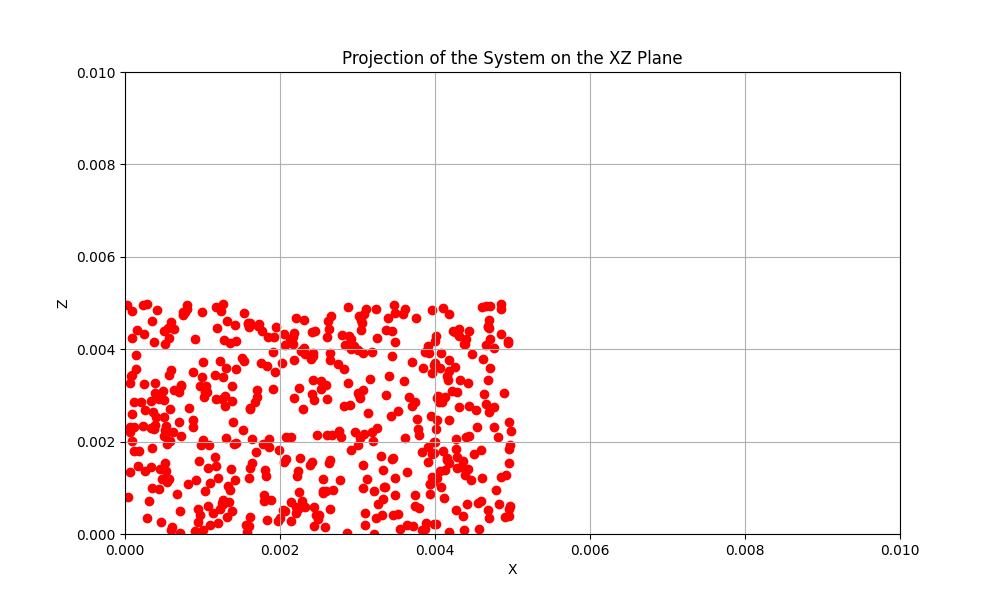
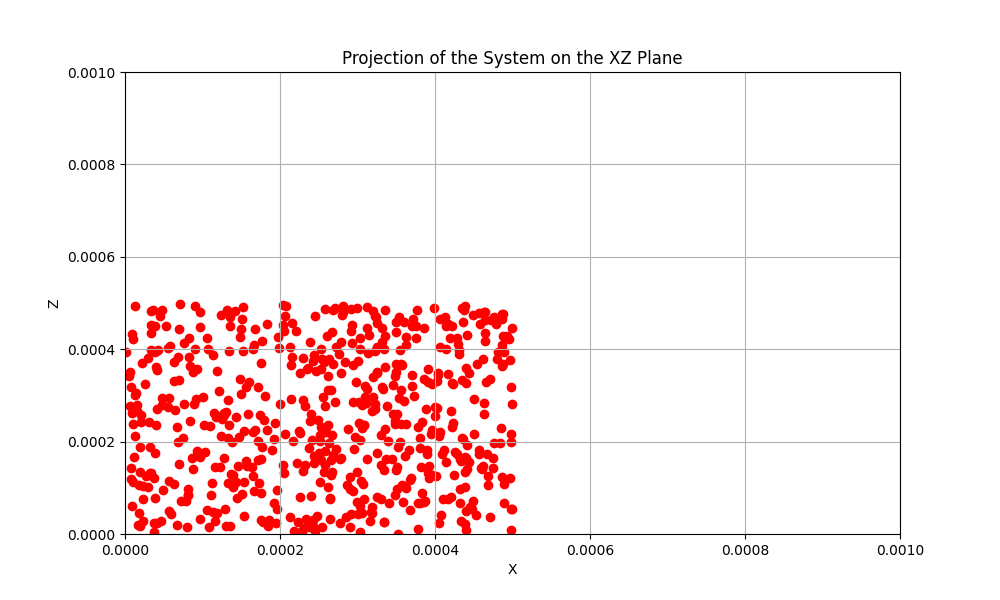
ignoring epsilon

diff --git a/montecarlosim/simulation.py b/montecarlosim/simulation.py
@@ -8,8 +8,8 @@ from concurrent.futures import ThreadPoolExecutor, as_completed
 from montecarlosim.container import Region, get_region
 from montecarlosim.initializer import Initializer
 
-def lj_potential(r, eps = 1) -> float: ### verify this is correct
-    return 4 * (math.pow(r, -12) - math.pow(r, -6)) * (eps)
+def lj_potential(r) -> float: ### verify this is correct
+    return 4 * (math.pow(r, -12) - math.pow(r, -6))
 
 
 class Simulation():
@@ -80,7 +80,7 @@ class Simulation():
             if r < 1e-6:
                 return np.inf
 
-            partial_energy += lj_potential(r, eps = self.eps)
+            partial_energy += lj_potential(r)
 
         return partial_energy
 
@@ -190,7 +190,7 @@ class Simulation():
 
         ### apply the Metropolis-Hastings acceptance criterion
         np.random.seed()
-        is_accepted = de <= 0 \
+        is_accepted = de < 0 \
             or np.exp(-self.beta * de) > np.random.rand()
 
         ### if the move is accepted, update the system

diff --git a/run_simulation.py b/run_simulation.py
@@ -8,8 +8,8 @@ from montecarlosim.plotter import Plotter
 
 def main():
 
-    L = 0.01
-    N = 500
+    L = 0.001
+    N = 300
 
     print(f"Simulation started at {time.asctime()}...")
     t0 = time.time()
